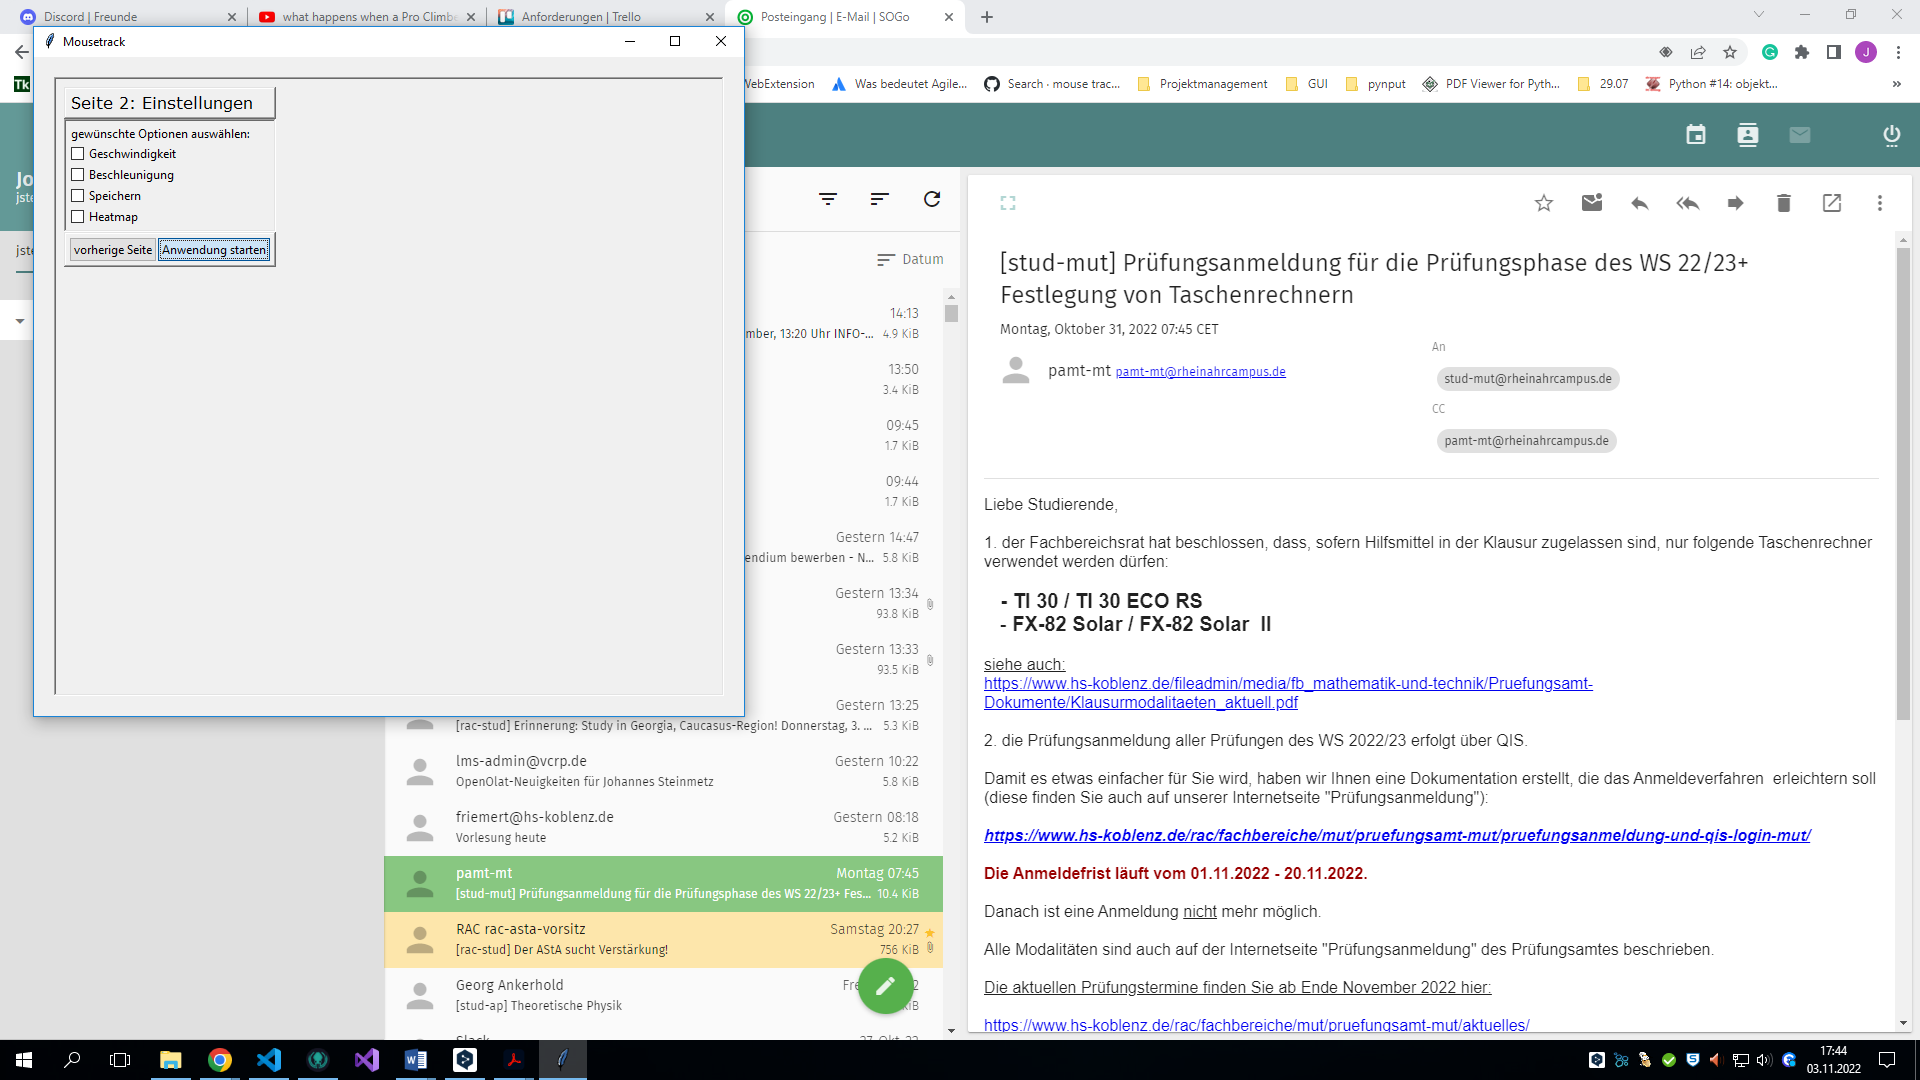
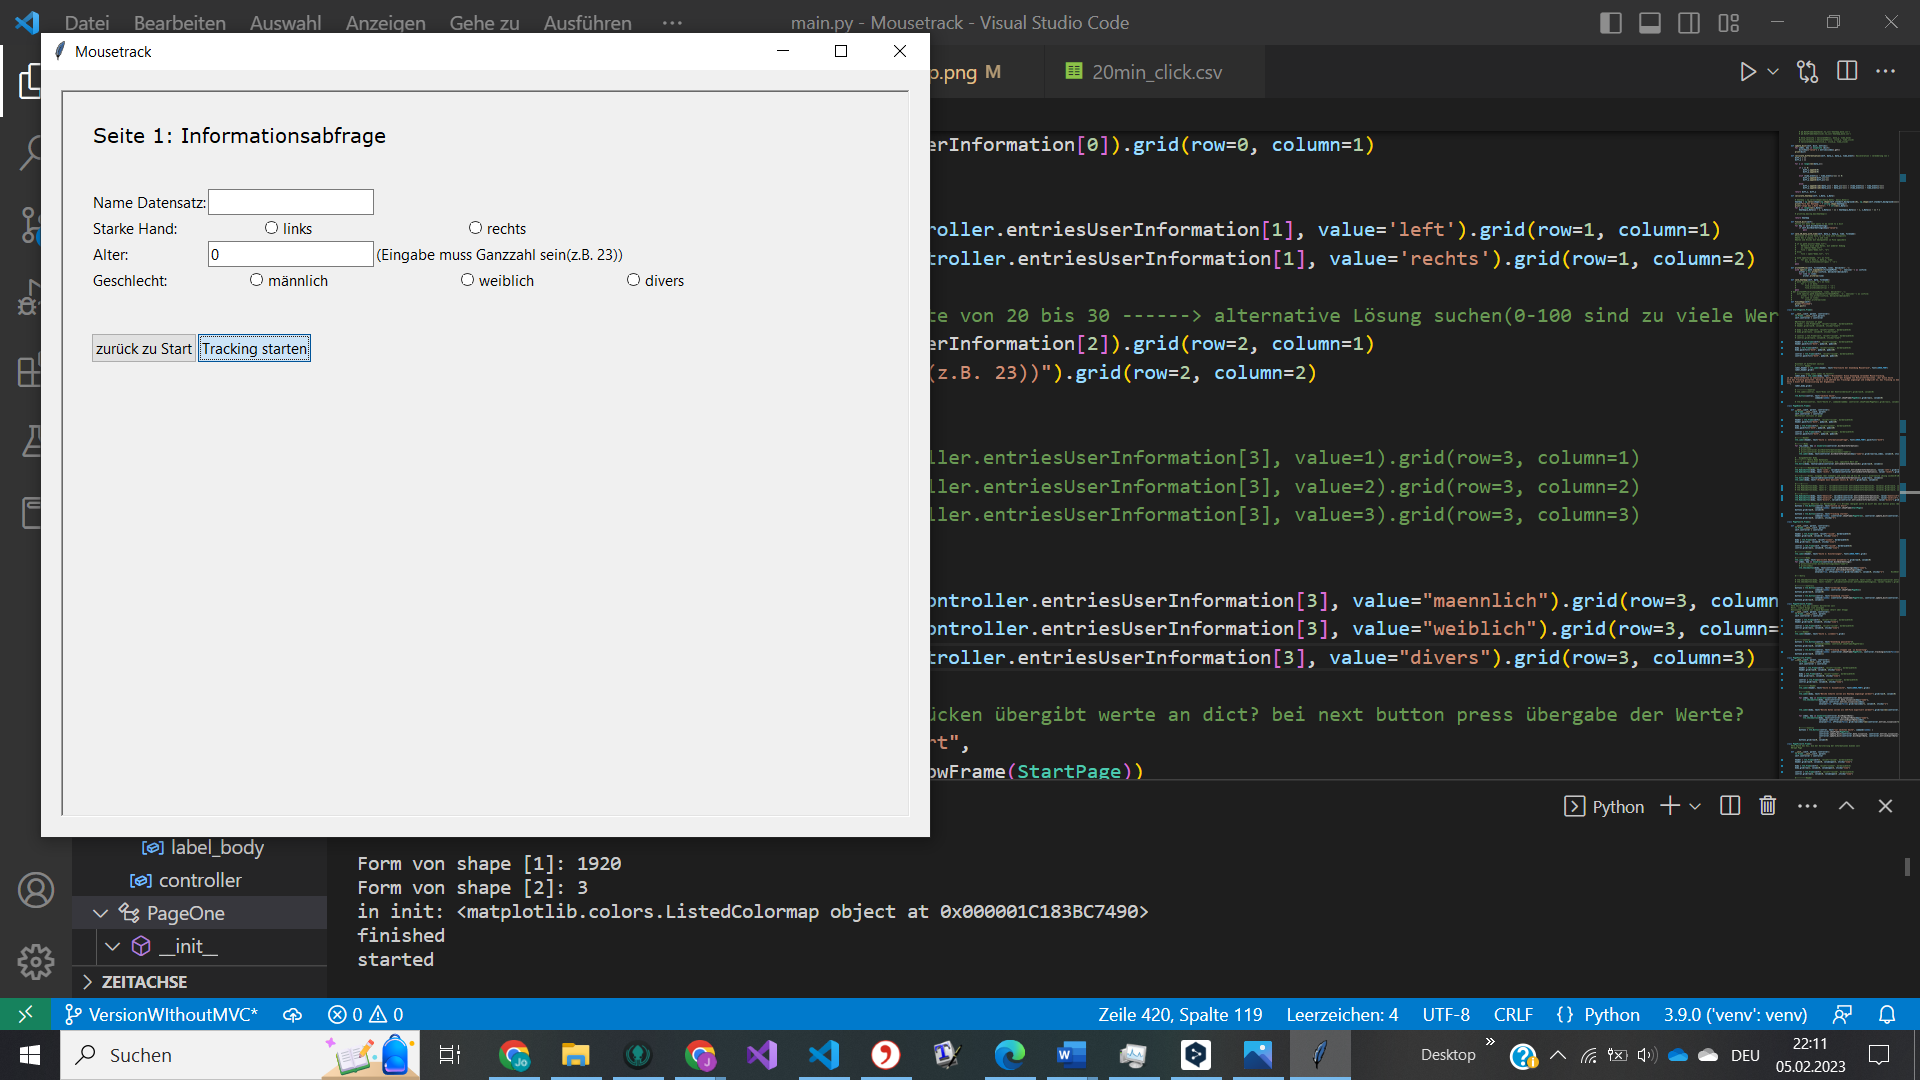
finale Version  vor MVC

diff --git a/main.py b/main.py
@@ -29,16 +29,7 @@ import pyautogui as pag
 LARGE_FONT= ("Verdana", 12)
 
 
-
-
-
-
-
-
-
-
-
-class App(tk.Tk):
+class MainWindow(tk.Tk):
 # class App(tk.Frame):
 
     def __init__(self, *args, **kwargs):
@@ -51,11 +42,12 @@ class App(tk.Tk):
             "info_1":    {"name" : "Name Datensatz:",   "value" : tk.StringVar()},
             "info_2":    {"name" : "Starke Hand:",      "value" : tk.StringVar()},
             "info_3":    {"name" : "Alter:",            "value" : tk.IntVar()},
-            "info_4":    {"name" : "Technikaffinität:", "value" : tk.IntVar()},
-            "info_5":    {"name" : "Geschlecht:",       "value" : tk.StringVar()},
-        }
-        self.entriesUserInformation = [tk.StringVar(), tk.StringVar(), tk.IntVar(), tk.IntVar(), tk.StringVar()]
+            "info_4":    {"name" : "Geschlecht:",       "value" : tk.StringVar()},
+        } #"info_4":    {"name" : "Technikaffinität:", "value" : tk.IntVar()},
+        self.entriesUserInformation = [tk.StringVar(), tk.StringVar(), tk.IntVar(), tk.StringVar()]
+                                        #tk.IntVar(), 
 
+        """
         self.dictUserSettings = {
             "setting_1": {"name" : "Geschwindigkeit",  "value" : tk.BooleanVar()},
             "setting_2": {"name" : "Beschleunigung",   "value" : tk.BooleanVar()},
@@ -63,7 +55,8 @@ class App(tk.Tk):
             "setting_4": {"name" : "Heatmap",          "value" : tk.BooleanVar()}
         }
         self.entriesUserSettings = [tk.BooleanVar(), tk.BooleanVar(), tk.BooleanVar(), tk.BooleanVar()]
-        
+        """     
+
         #zum Anzeigen der spezifischen Heatmap 
         self.data_visualize = {
             "visualize_1": {"name" : "Positionsdaten",      "value" : tk.BooleanVar()},
@@ -75,7 +68,7 @@ class App(tk.Tk):
         self.entries_visualize = [tk.BooleanVar(), tk.BooleanVar(), tk.BooleanVar(), tk.BooleanVar()]
         #besseren Namen finden
 
-
+        """
         self.dictExportData = {
             "export_1": {"name" : "Positionsdaten",            "value" : tk.BooleanVar()},# "data" : self.move},
             "export_2": {"name" : "Geschwindigkeitsdaten",     "value" : tk.BooleanVar()},
@@ -85,7 +78,7 @@ class App(tk.Tk):
         }
 
         self.entriesExportData = [tk.BooleanVar(), tk.BooleanVar(), tk.BooleanVar(), tk.BooleanVar()]
-
+            """
         self.map_dict = {
             "map_1": {"title" : "Standartheatmap",        "value" : np.empty},
             "map_2": {"title" : "Heatmap Mausposition",   "value" : np.empty},
@@ -147,7 +140,7 @@ class App(tk.Tk):
 
         self.frames = {}
 
-        for F in (StartPage, PageOne, PageTwo, PageThree, PageFour, PageFive):
+        for F in (StartPage, PageOne, PageTwo, PageThree):#, PageFour, PageFive):
 
             frame = F(parent=container, controller=self)
             self.frames[F] = frame
@@ -199,7 +192,7 @@ class App(tk.Tk):
         else:
             print("stopped")
             self.listener.stop()
-            self.finish_dict()
+            #self.finish_dict()
 
             #lieber erst in Page5 einlesen?
             # self.new_background = plt.imread("backgroundHeatmap")
@@ -227,18 +220,10 @@ class App(tk.Tk):
             #Heatmap Berechnung für Velo und Acc anpassen
             # self.heatmap_velo   = self.calculate_heatmap(self.velo_x, self.velo_y)
             # self.heatmap_acc   = self.calculate_heatmap(self.acc_x, self.acc_y)
+    
+    
             self.heatmap_list  = [self.random_heatmap, self.heatmap_move, self.heatmap_click]#, self.heatmap_velo, self.heatmap_acc]
-            # save_2D_data_with_time(move_x, move_y, time_move, filename= "move.csv")
-            # save_2D_data_with_time(click_x, click_y, time_click, filename= "click.csv")
-
-            #[0,0] leer, Lösung finden! Daten anders Speichern z.b.
-            # pd.DataFrame(heatmove).to_csv('heatmap_move.csv')
-            # pd.DataFrame(heatclick).to_csv('heatmap_move.csv')
-
-            # move_velocity = CalculateVeli(, move_y, time_move)
-            #click_velocity = CalculateVeli(x, click_y, time_click)
-            # CalculateVelocity(click_x, click_y, time_click)
-
+    
     def update_dict(self, dict, entries):
         for index, key in enumerate (dict):
             dict[key]["value"] = entries[index].get()
@@ -276,47 +261,13 @@ class App(tk.Tk):
         # print(np.max(np.max(heatmap)))
 
         return heatmap 
-
-    def finish_dict(self):
-        #write all data that wants to be saved to a dict
-        for key in self.dictUserSettings:
-            if self.dictUserSettings[key]["value"]:
-                pass
-
-    def save_2D_data_with_time(self, data_x, data_y, time, filename):
-        #function to write data in csv file with timepoints
-        #data has 3 inputs, x, y and time 
-        #daten und Klicks mit Zeitpunkten in File speichern
-
-        # if os.path.exists("demo.txt"):
-        #     #kreiere eine neue Datei, mit anderer Endung
-        #     os.remove("demo.txt")
-        #     file = open("demo.txt", "w")
-        # else:
-        #     file = open("demo.txt", "x")
-
-        # with open(filename, "w") as file:
-        #     for pos in data_x, data_y, time:
-        #         file.writelines(str(pos) + '\n')
-        pass
+    
 
     def writeCSVFile(self, filenamePath, lines, delimiter=','):
         with open(os.path.expanduser(filenamePath), 'w', newline='') as csvfile:
             writer = csv.writer(csvfile, delimiter=delimiter)
             for line in lines:
                 writer.writerow(line)
-
-    def save_heatmap(self, data, filename):
-        # with open(filename, "w") as file:
-        #     for x, y in data:
-        #         file.writelines(str(x) + '\n')
-        #         file.writelines(str(y) + '\n')
-        pass
-    # def writeCSVFile(filenamePath, lines, delimiter=','):
-    #     with open(os.path.expanduser(filenamePath), 'w', newline='') as csvfile:
-    #         writer = csv.writer(csvfile, delimiter=delimiter)
-    #         for line in lines:
-    #             writer.writerow(line)
     def finishApp(self):
         print("finished")
         self.quit()
@@ -337,13 +288,13 @@ class StartPage(tk.Frame):
         # control = ttk.Frame(self, relief="raised", borderwidth=5)
         # control.grid(row=2, column=0, sticky="nsew")
 
-        header = ttk.Frame(self, relief="raised", borderwidth=5)
+        header = ttk.Frame(self)#, relief="raised", borderwidth=5)
         header.pack(fill="both", pady=20, padx=20)
 
-        body = ttk.Frame(self, relief="sunken", borderwidth=5)
+        body = ttk.Frame(self)#, relief="sunken", borderwidth=5)
         body.pack(fill="both", pady=20, padx=20)
         
-        control = ttk.Frame(self, relief="raised", borderwidth=5)
+        control = ttk.Frame(self)#, relief="raised", borderwidth=5)
         control.pack(fill="both", pady=20, padx=20)
 
 
@@ -354,17 +305,20 @@ class StartPage(tk.Frame):
         label_header.grid()
 
         #----------body statt label tk.Text??!!
-        label_body = ttk.Label(body, text="Hier könnte ein Informationstext für Anwender stehen")
+        label_body = ttk.Label(body, text="""Willkommen! Diese Anwendung verwendet Mouse-tracking,
+um Ihr Nutzerverhalten zu analysieren. Seite 1 dient der Eingabe von Nutzerinformationen. Über diese Seite
+wird das Tracking gestartet. Seite 2 wird während des Trackings angezeigt und ermöglicht es, das Tracking zu beennde.
+Seite 3 dient der Visualisierung der Ergebnisse.
+""")
         label_body.grid()
 
         # -----------Control
-        ttk.Label(control, text="Dies ist der Kontrollbereich").grid(row=0, column=0)
+        # ttk.Label(control, text="Dies ist der Kontrollbereich").grid(row=0, column=0)
 
         ttk.Button(control, text="nächste Seite",
                             command=lambda: controller.showFrame(PageOne)).grid(row=1, column=0)
 
-        ttk.Button(control, text="Seite 2",
-                            command=lambda: controller.showFrame(PageTwo)).grid(row=1, column=1)
+        # ttk.Button(control, text="Seite 2", command=lambda: controller.showFrame(PageTwo)).grid(row=1, column=1)
 
 class PageOne(tk.Frame):
 
@@ -373,13 +327,13 @@ class PageOne(tk.Frame):
         self.controller = controller
         #Different sections of page
 
-        header = ttk.Frame(self, relief="raised", borderwidth=5)
+        header = ttk.Frame(self)#, relief="raised", borderwidth=5)
         header.pack(fill="both", pady=20, padx=20)
 
-        body = ttk.Frame(self, relief="sunken", borderwidth=5)
+        body = ttk.Frame(self)#, relief="sunken", borderwidth=5)
         body.pack(fill="both", pady=20, padx=20)
         
-        control = ttk.Frame(self, relief="raised", borderwidth=5)
+        control = ttk.Frame(self)#, relief="raised", borderwidth=5)
         control.pack(fill="both", pady=20, padx=20)
 
         #-------Header
@@ -406,24 +360,25 @@ class PageOne(tk.Frame):
         ttk.Label(body, text="(Eingabe muss Ganzzahl sein(z.B. 23))").grid(row=2, column=2)
 
         #-----4------
-        ttk.Radiobutton(body, text='1', variable=controller.entriesUserInformation[3], value=1).grid(row=3, column=1)
-        ttk.Radiobutton(body, text='2', variable=controller.entriesUserInformation[3], value=2).grid(row=3, column=2)
-        ttk.Radiobutton(body, text='3', variable=controller.entriesUserInformation[3], value=3).grid(row=3, column=3)
+        # ttk.Radiobutton(body, text='1', variable=controller.entriesUserInformation[3], value=1).grid(row=3, column=1)
+        # ttk.Radiobutton(body, text='2', variable=controller.entriesUserInformation[3], value=2).grid(row=3, column=2)
+        # ttk.Radiobutton(body, text='3', variable=controller.entriesUserInformation[3], value=3).grid(row=3, column=3)
 
         #-----5------
-        ttk.Radiobutton(body, text="männlich", variable=controller.entriesUserInformation[4], value="maennlich").grid(row=4, column=1)
-        ttk.Radiobutton(body, text="weiblich", variable=controller.entriesUserInformation[4], value="weiblich").grid(row=4, column=2)
-        ttk.Radiobutton(body, text="divers", variable=controller.entriesUserInformation[4], value="divers").grid(row=4, column=3)
+        ttk.Radiobutton(body, text="männlich", variable=controller.entriesUserInformation[3], value="maennlich").grid(row=3, column=1)
+        ttk.Radiobutton(body, text="weiblich", variable=controller.entriesUserInformation[3], value="weiblich").grid(row=3, column=2)
+        ttk.Radiobutton(body, text="divers", variable=controller.entriesUserInformation[3], value="divers").grid(row=3, column=3)
 
         #-------Control #Buttoon zur Bestätigung? ---> Drücken übergibt werte an dict? bei next button press übergabe der Werte?
         button1 = ttk.Button(control, text="zurück zu Start",
                             command=lambda: controller.showFrame(StartPage))
         button1.grid(row=0, column=0)
 
-        button2 = ttk.Button(control, text="nächste Seite",
-                            command=lambda: [controller.showFrame(PageTwo), controller.update_dict(controller.dictUserInformation, controller.entriesUserInformation)])
+        button2 = ttk.Button(control, text="Tracking starten",
+                            command=lambda: [controller.showFrame(PageTwo), controller.update_dict(controller.dictUserInformation, controller.entriesUserInformation, controller.tracking(active=True))])
         button2.grid(row=0, column=1, sticky="e")
 
+"""
 class PageTwo(tk.Frame):
 
     def __init__(self, parent, controller):
@@ -464,8 +419,9 @@ class PageTwo(tk.Frame):
         button2 = ttk.Button(control, text="Anwendung starten",
                             command=lambda: [controller.showFrame(PageThree), controller.update_dict(controller.dictUserSettings, controller.entriesUserSettings),  controller.tracking(active=True)])
         button2.grid(row=0, column=1)
-        
-class PageThree(tk.Frame):
+"""        
+
+class PageTwo(tk.Frame):
     #3te Seite, die das Livemenü darstellen soll
     #evtl. simple Dinge live anzeigen
     #ansonsten einfach nur simple Optionen (Start oder Stopp)
@@ -473,14 +429,14 @@ class PageThree(tk.Frame):
         tk.Frame.__init__(self, parent)
         self.controller = controller
        
-        header = ttk.Frame(self, relief="raised", borderwidth=5)
+        header = ttk.Frame(self)#, relief="raised", borderwidth=5)
         header.grid(row=0, column=0, sticky="nsew")
                 
-        control = ttk.Frame(self, relief="raised", borderwidth=5)
+        control = ttk.Frame(self)#, relief="raised", borderwidth=5)
         control.grid(row=1, column=0, sticky="nsew")
 
         #-------Header
-        ttk.Label(header, text="Seite 3, Livemenü").grid()
+        ttk.Label(header, text="Seite 2, Livemenü").grid()
 
 
         #-------Control
@@ -489,25 +445,25 @@ class PageThree(tk.Frame):
         button1.grid(row=0, column=0)
 
         button2 = ttk.Button(control, text="Tracking stoppen und  zu Auswertung",
-                            command=lambda: [controller.showFrame(PageFour), controller.tracking(active=False)])
+                            command=lambda: [controller.showFrame(PageThree), controller.tracking(active=False)])
         button2.grid(row=0, column=1)
-
+"""
 class PageFour(tk.Frame):
     def __init__(self, parent, controller):
             tk.Frame.__init__(self, parent)
             self.controller = controller
             
-            header = ttk.Frame(self, relief="raised", borderwidth=5)
+            header = ttk.Frame(self)#, relief="raised", borderwidth=5)
             header.grid(row=0, column=0, sticky="nsew")
 
-            body = ttk.Frame(self, relief="sunken", borderwidth=5)
+            body = ttk.Frame(self)#, relief="sunken", borderwidth=5)
             body.grid(row=1, column=0, sticky="nsew")
             
-            control = ttk.Frame(self, relief="raised", borderwidth=5)
+            control = ttk.Frame(self)#, relief="raised", borderwidth=5)
             control.grid(row=2, column=0, sticky="nsew")
 
             #----------Header
-            ttk.Label(header, text="Seite 4: Auswahlseite", font=LARGE_FONT).grid()
+            ttk.Label(header, text="Seite 3: Auswahlseite", font=LARGE_FONT).grid()
 
             #------body
             ttk.Label(body, text="Welche Inhalte sollen als Heatmap angezeigt werden?").grid(row=0, column=0)
@@ -534,8 +490,8 @@ class PageFour(tk.Frame):
                                 controller.update_dict(controller.dictExportData, controller.entriesExportData)
                                 ])
             button1.grid(row=0, column=0)
-
-class PageFive(tk.Frame):
+"""
+class PageThree(tk.Frame):
     #5te Seite des Gui, die der Darstellung der Informationen dienen soll
     #Graph Page
 
@@ -543,17 +499,17 @@ class PageFive(tk.Frame):
         tk.Frame.__init__(self, parent)
         self.controller = controller
         
-        header = ttk.Frame(self, relief="raised", borderwidth=5)
+        header = ttk.Frame(self)#, relief="raised", borderwidth=5)
         header.grid(row=0, column=0, columnspan=3, sticky="nsew")
 
-        body = ttk.Frame(self, relief="sunken", borderwidth=5)
+        body = ttk.Frame(self)#, relief="sunken", borderwidth=5)
         body.grid(row=1, column=0, columnspan=3, sticky="nsew")
         
-        control = ttk.Frame(self, relief="raised", borderwidth=5)
+        control = ttk.Frame(self)#, relief="raised", borderwidth=5)
         control.grid(row=2, column=0, columnspan=3 ,sticky="nsew")
 
         #----------Header
-        ttk.Label(header, text="Seite 5: Darstellung der Inhalte", font=LARGE_FONT).grid()
+        ttk.Label(header, text="Seite 3: Darstellung der Inhalte", font=LARGE_FONT).grid()
 
         #-------PLOTTING AREA-------------------
         self.background = plt.imread("backgroundHeatmap.png")
@@ -717,7 +673,7 @@ class PageFive(tk.Frame):
         
 
 
-app = App()
+app = MainWindow()
 # app.geometry()
 
 # if __name__ == "__main__":
